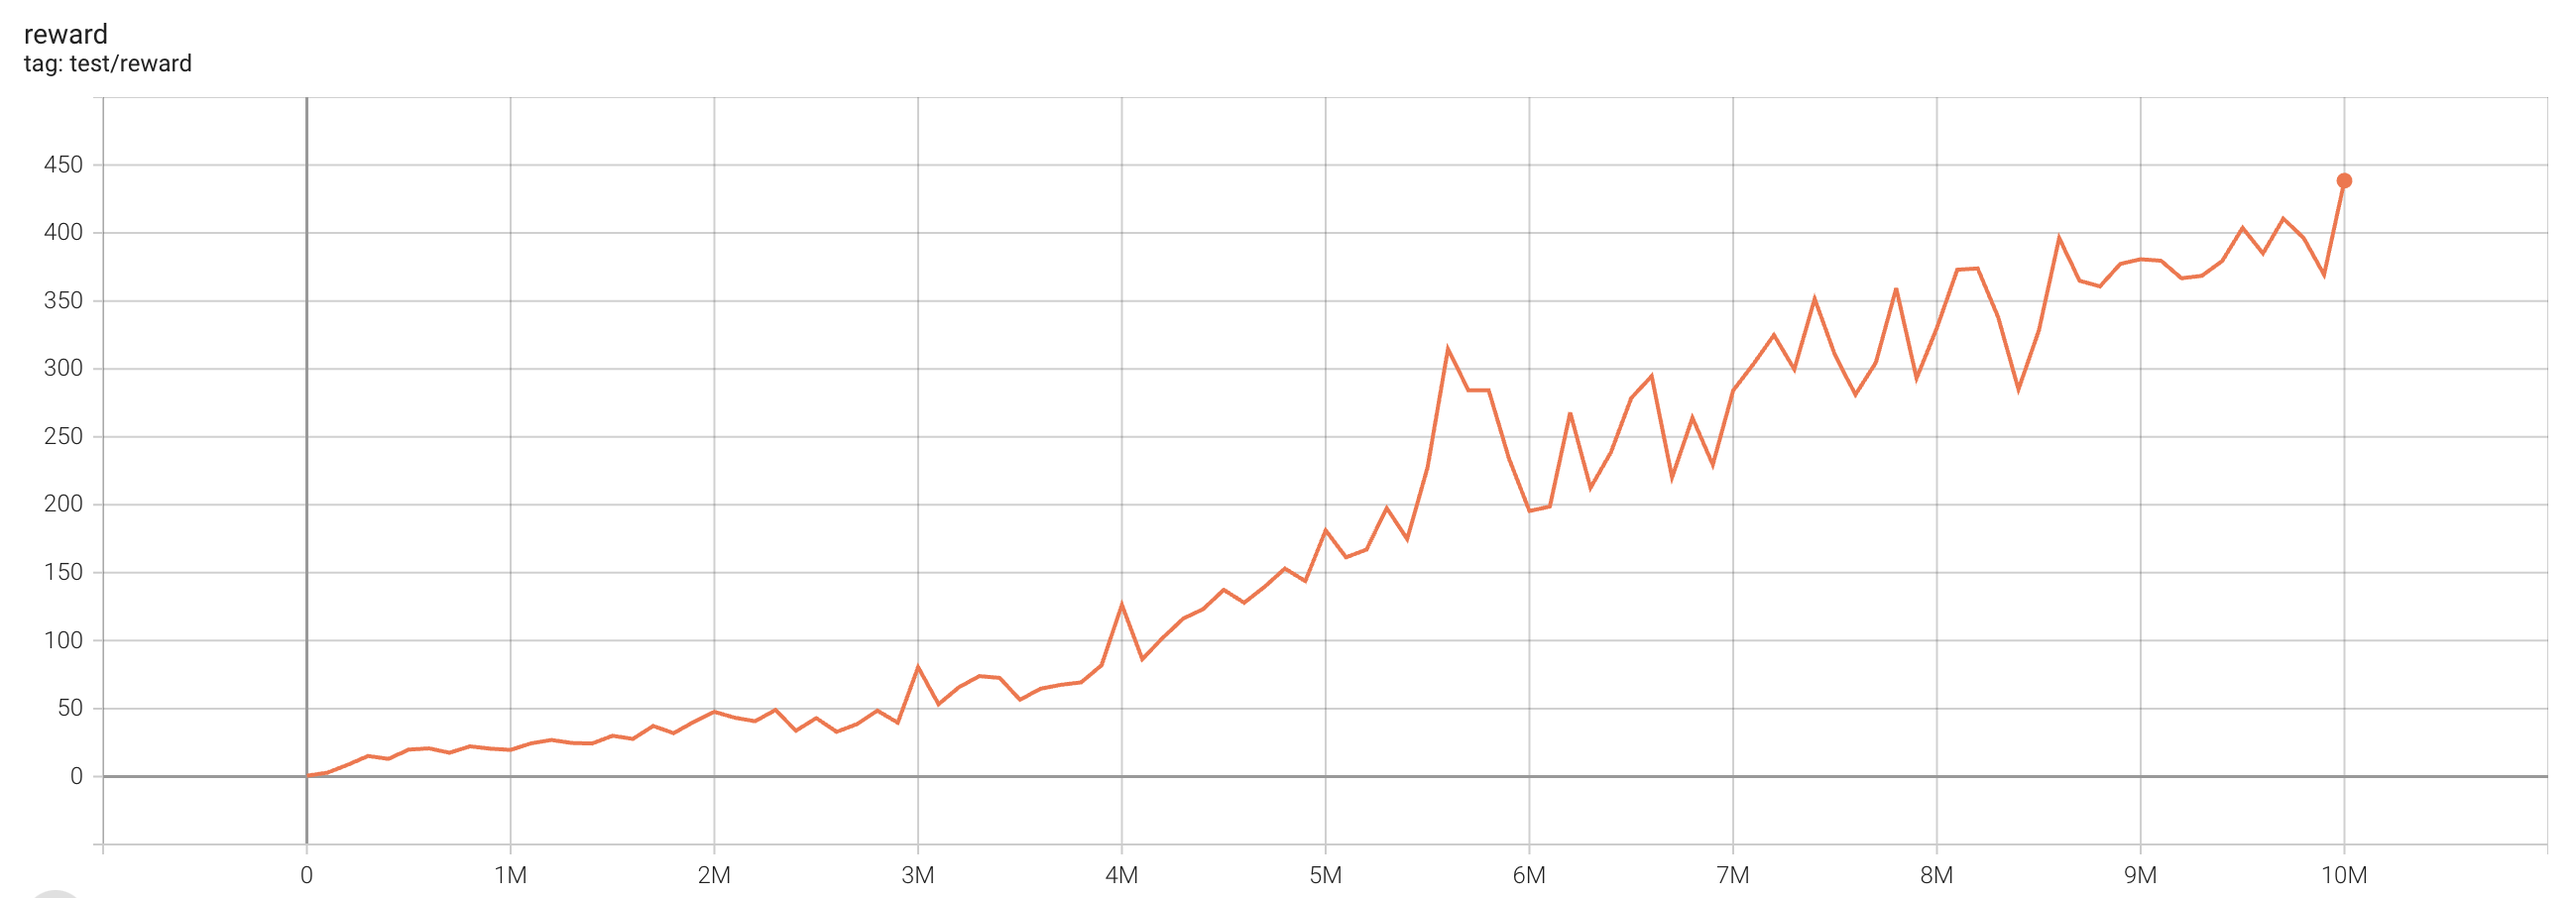
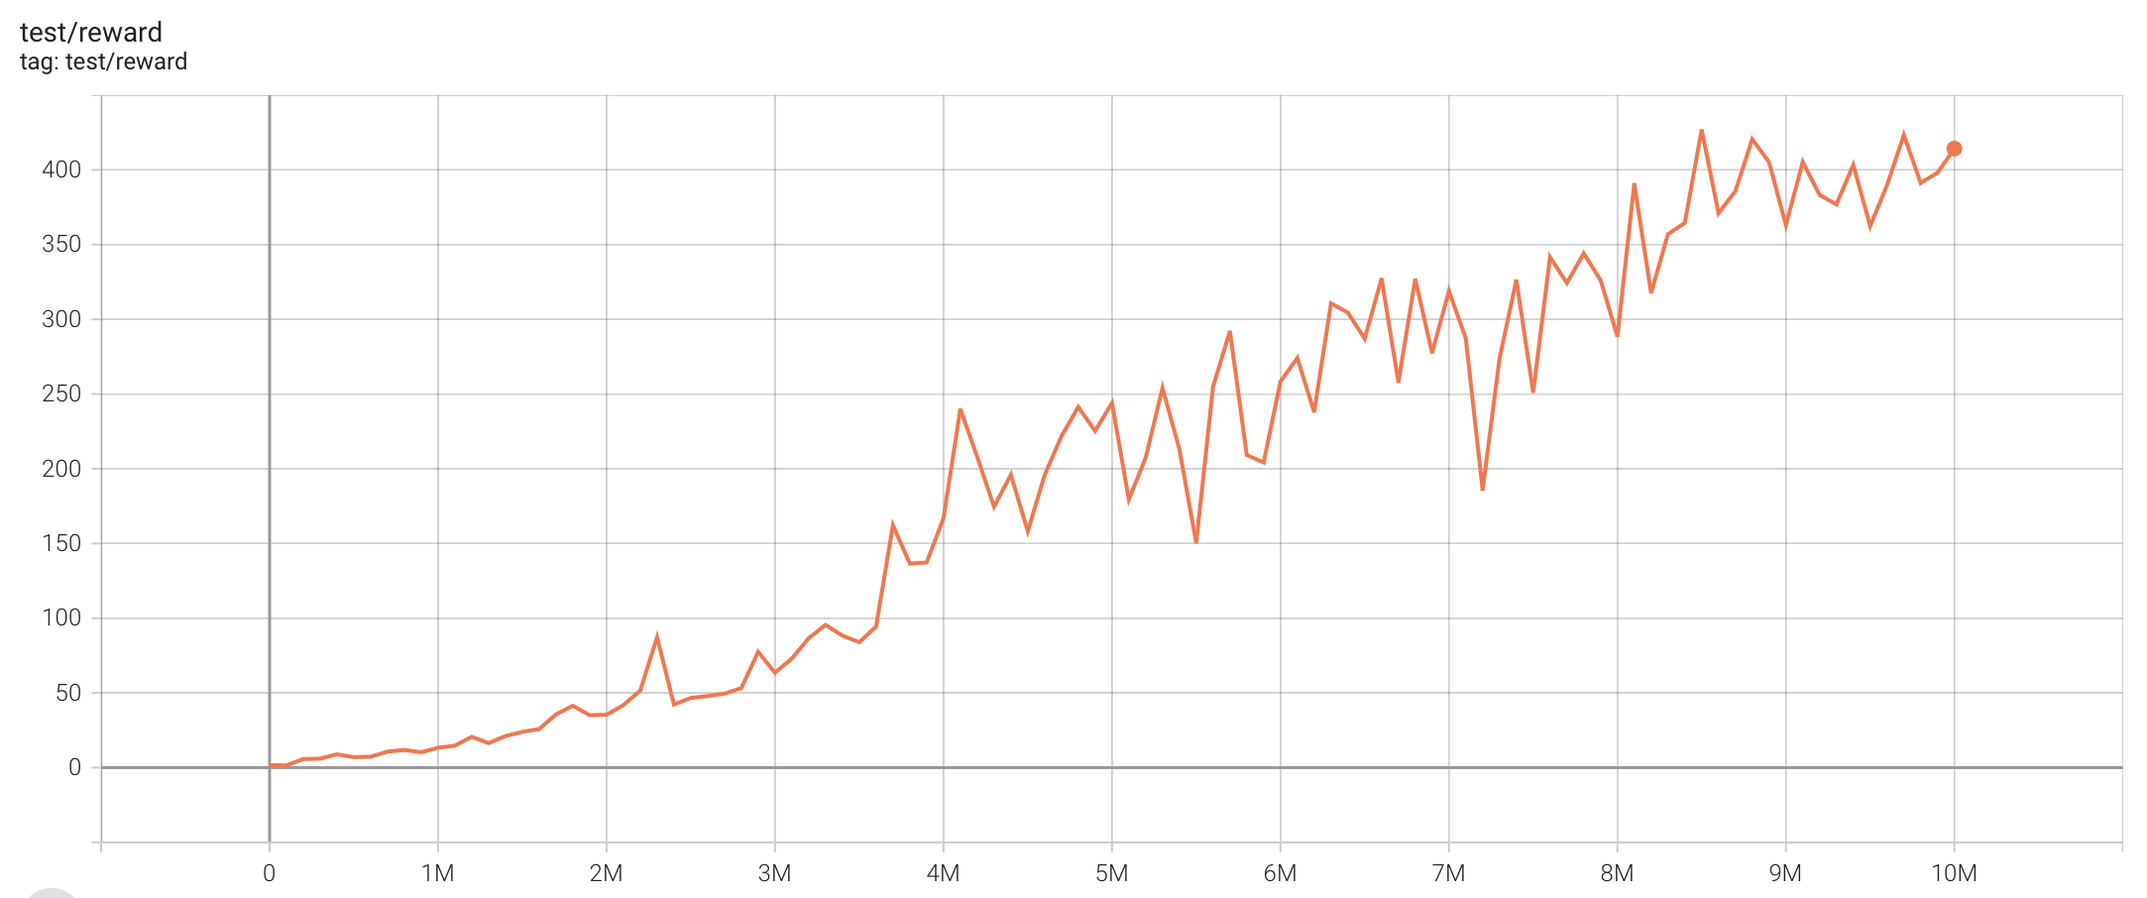
update results

diff --git a/examples/atari/atari_network.py b/examples/atari/atari_network.py
@@ -1,4 +1,4 @@
-from typing import Any, Callable, Dict, Optional, Sequence, Tuple, Union
+from typing import Any, Callable, Dict, Optional, Sequence, Tuple, Type, Union
 
 import numpy as np
 import torch
@@ -11,6 +11,21 @@ def layer_init(layer, std=np.sqrt(2), bias_const=0.0):
     torch.nn.init.orthogonal_(layer.weight, std)
     torch.nn.init.constant_(layer.bias, bias_const)
     return layer
+
+
+def scale_obs(module: Type[nn.Module], denom: float = 255.0) -> Type[nn.Module]:
+
+    class scaled_module(module):
+
+        def forward(
+            self,
+            obs: Union[np.ndarray, torch.Tensor],
+            state: Optional[Any] = None,
+            info: Dict[str, Any] = {}
+        ) -> Tuple[torch.Tensor, Any]:
+            return super().forward(obs / denom, state, info)
+
+    return scaled_module
 
 
 class DQN(nn.Module):

diff --git a/examples/atari/atari_ppo.py b/examples/atari/atari_ppo.py
@@ -5,7 +5,7 @@ import pprint
 
 import numpy as np
 import torch
-from atari_network import DQN, DQNScaled, layer_init
+from atari_network import DQN, scale_obs, layer_init
 from atari_wrapper import make_atari_env
 from torch.optim.lr_scheduler import LambdaLR
 from torch.utils.tensorboard import SummaryWriter
@@ -106,7 +106,7 @@ def test_ppo(args=get_args()):
     np.random.seed(args.seed)
     torch.manual_seed(args.seed)
     # define model
-    net_cls = DQNScaled if args.scale_obs else DQN
+    net_cls = scale_obs(DQN) if args.scale_obs else DQN
     net = net_cls(
         *args.state_shape,
         args.action_shape,

diff --git a/tianshou/policy/modelfree/ppo.py b/tianshou/policy/modelfree/ppo.py
@@ -111,7 +111,7 @@ class PPOPolicy(A2CPolicy):
                 if self._norm_adv:
                     mean, std = minibatch.adv.mean(), minibatch.adv.std()
                     minibatch.adv = (minibatch.adv -
-                                     mean) / (std + 1e-8)  # per-batch norm
+                                     mean) / (std + self._eps)  # per-batch norm
                 ratio = (dist.log_prob(minibatch.act) -
                          minibatch.logp_old).exp().float()
                 ratio = ratio.reshape(ratio.size(0), -1).transpose(0, 1)

diff --git a/examples/atari/README.md b/examples/atari/README.md
@@ -114,13 +114,13 @@ One epoch here is equal to 100,000 env step, 100 epochs stand for 10M.
 
 | task                        | best reward | reward curve                          | parameters                                                   |
 | --------------------------- | ----------- | ------------------------------------- | ------------------------------------------------------------ |
-| PongNoFrameskip-v4          | 20.1        | ![](results/ppo/Pong_rew.png)         | `python3 atari_ppo.py --task "PongNoFrameskip-v4"` |
-| BreakoutNoFrameskip-v4      | 438.5        | ![](results/ppo/Breakout_rew.png)     | `python3 atari_ppo.py --task "BreakoutNoFrameskip-v4"` |
-| EnduroNoFrameskip-v4        | 1304.8       | ![](results/ppo/Enduro_rew.png)       | `python3 atari_ppo.py --task "EnduroNoFrameskip-v4"`  |
-| QbertNoFrameskip-v4         | 13640      | ![](results/ppo/Qbert_rew.png)        | `python3 atari_ppo.py --task "QbertNoFrameskip-v4"`  |
-| MsPacmanNoFrameskip-v4      | 1930       | ![](results/ppo/MsPacman_rew.png)     | `python3 atari_ppo.py --task "MsPacmanNoFrameskip-v4"`  |
-| SeaquestNoFrameskip-v4      | 904      | ![](results/ppo/Seaquest_rew.png)     | `python3 atari_ppo.py --task "SeaquestNoFrameskip-v4" --lr 2.5e-5`  |
-| SpaceInvadersNoFrameskip-v4 | 843       | ![](results/ppo/SpaceInvaders_rew.png) | `python3 atari_ppo.py --task "SpaceInvadersNoFrameskip-v4"`  |
+| PongNoFrameskip-v4          | 20.2        | ![](results/ppo/Pong_rew.png)         | `python3 atari_ppo.py --task "PongNoFrameskip-v4"` |
+| BreakoutNoFrameskip-v4      | 413.7        | ![](results/ppo/Breakout_rew.png)     | `python3 atari_ppo.py --task "BreakoutNoFrameskip-v4"` |
+| EnduroNoFrameskip-v4        | 1190.9       | ![](results/ppo/Enduro_rew.png)       | `python3 atari_ppo.py --task "EnduroNoFrameskip-v4"`  |
+| QbertNoFrameskip-v4         | 16875      | ![](results/ppo/Qbert_rew.png)        | `python3 atari_ppo.py --task "QbertNoFrameskip-v4"`  |
+| MsPacmanNoFrameskip-v4      | 2128       | ![](results/ppo/MsPacman_rew.png)     | `python3 atari_ppo.py --task "MsPacmanNoFrameskip-v4"`  |
+| SeaquestNoFrameskip-v4      | 894      | ![](results/ppo/Seaquest_rew.png)     | `python3 atari_ppo.py --task "SeaquestNoFrameskip-v4" --lr 1e-4`  |
+| SpaceInvadersNoFrameskip-v4 | 1544.5       | ![](results/ppo/SpaceInvaders_rew.png) | `python3 atari_ppo.py --task "SpaceInvadersNoFrameskip-v4"`  |
 
 # SAC (single run)
 
